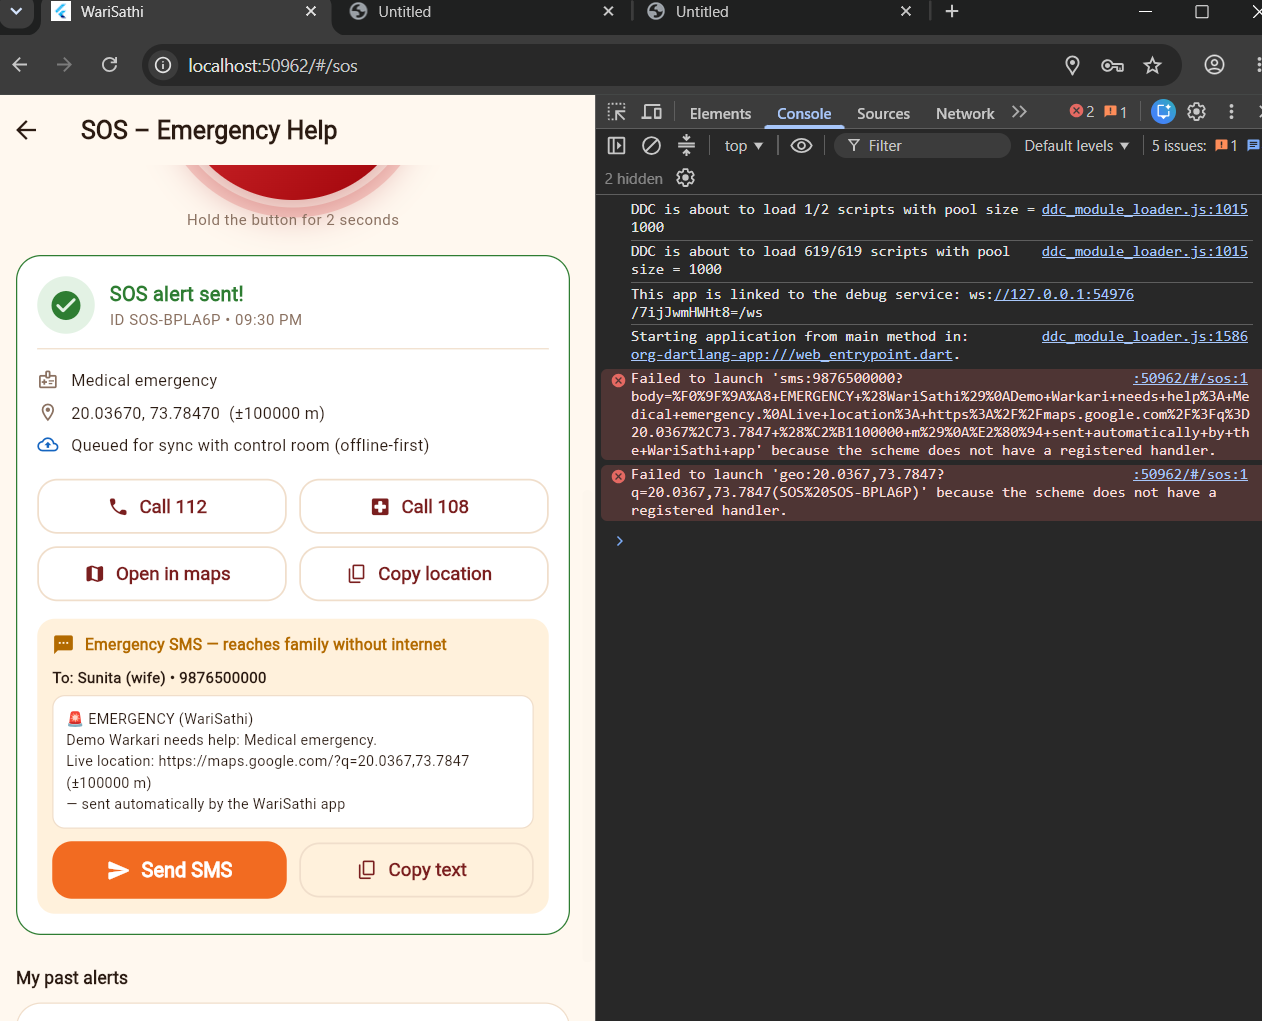
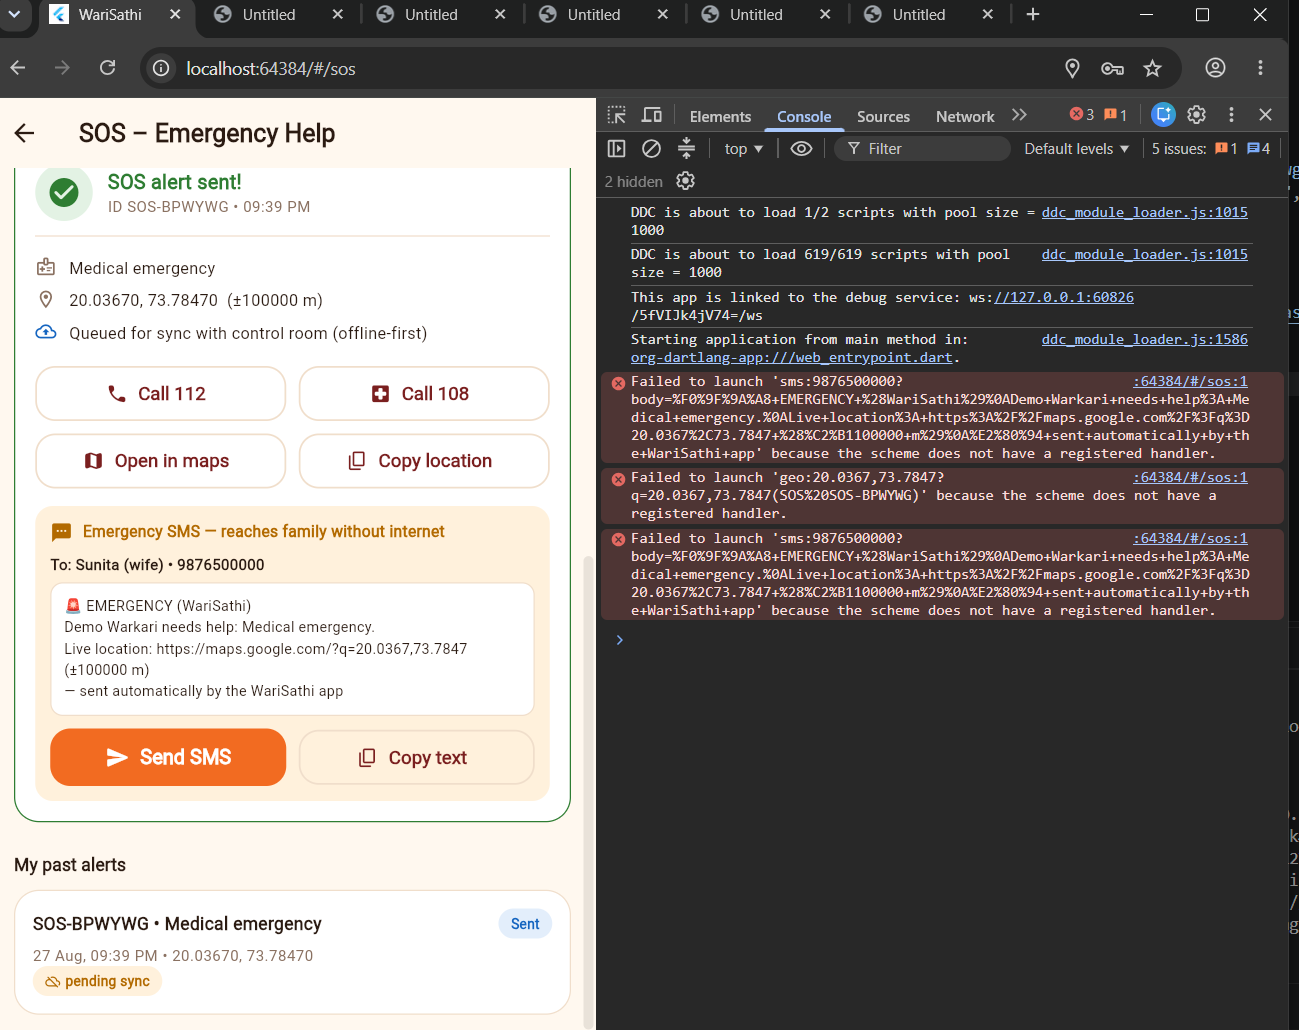
fix: don't auto-launch sms: on Flutter web — copy ICE text instead

diff --git a/mobile/lib/screens/sos/sos_screen.dart b/mobile/lib/screens/sos/sos_screen.dart
@@ -1,3 +1,4 @@
+import 'package:flutter/foundation.dart' show kIsWeb;
 import 'package:flutter/material.dart';
 import 'package:flutter/services.dart';
 import 'package:provider/provider.dart';
@@ -79,10 +80,19 @@ class _SosScreenState extends State<SosScreen> {
       );
       // Offline fallback: pre-fill an SMS to the emergency contact with a
       // live Google Maps link — reaches family even with zero internet.
+      // (Desktop web has no SMS app: copy the text instead.)
       final bool autoSms = (_icePhone.isNotEmpty) &&
           context.read<StorageService>().loadAutoIceSms();
-      if (autoSms) {
+      if (autoSms && !kIsWeb) {
         await _openIceSms(alert);
+      } else if (autoSms && kIsWeb) {
+        await Clipboard.setData(ClipboardData(text: _iceSmsBody(alert)));
+        if (!mounted) return;
+        ScaffoldMessenger.of(context).showSnackBar(
+          const SnackBar(
+              content: Text(
+                  'Emergency SMS text copied — sending works from the Android app.')),
+        );
       }
     }
   }
